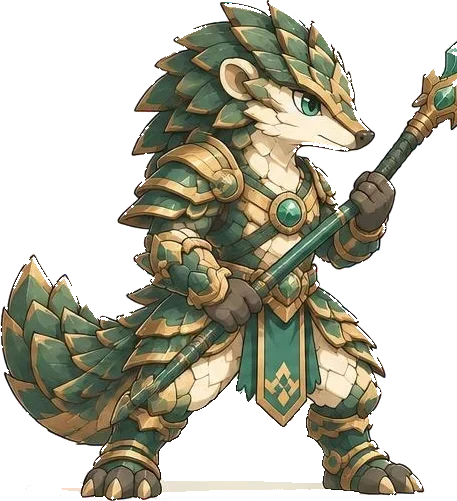
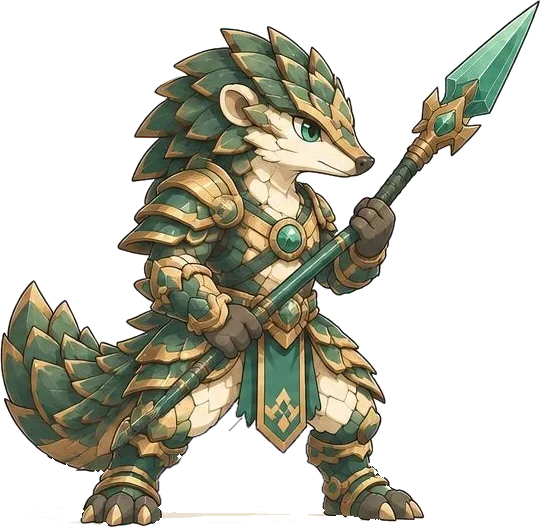
Realm: Kestran's standing poses show the full spear tip
Claude-Session: https://claude.ai/code/session_01V1aEsn5B6Gnr4Ug8DBZ5Wk

diff --git a/realm-images.js b/realm-images.js
@@ -12,7 +12,7 @@ const RL_ART={
   // f: standing art for each form, with the same placement fields (w/ih = file size).
   // Kestran (pangolin spear knight, chibi). LEGENDARY. Frames per form are [Spear Thrust, Winding Sweep, Spearstorm]:
   // the thrust is a lunge; the sweep reuses the thrust stance (the sheet's sweep crosses his legs) and draws the painted arc.
-  pan:{f:[{src:'art/pan-1.webp',ax:242,ay:487,h:472,w:464,ih:487,ht:0},{src:'art/pan-2.webp',ax:252,ay:501,h:485,w:457,ih:501,ht:0},{src:'art/pan-3.webp',ax:294,ay:580,h:562,w:625,ih:580,ht:0}],pose:'skill',melee:true,meleeSk:[true,false,false],dashPose:0,slash:'jade',
+  pan:{f:[{src:'art/pan-1.webp',ax:242,ay:511,h:495,w:519,ih:511,ht:0},{src:'art/pan-2.webp',ax:252,ay:527,h:511,w:540,ih:527,ht:0},{src:'art/pan-3.webp',ax:294,ay:580,h:562,w:625,ih:580,ht:0}],pose:'skill',melee:true,meleeSk:[true,false,false],dashPose:0,slash:'jade',
         c:[[{src:'art/pan-1c1.webp',ax:130,ay:284,h:275,w:416,ih:284,ht:0},{src:'art/pan-1c2.webp',ax:130,ay:284,h:275,w:416,ih:284,ht:0},{src:'art/pan-1c3.webp',ax:140,ay:313,h:303,w:289,ih:313,ht:0}],
            [{src:'art/pan-2c1.webp',ax:132,ay:289,h:280,w:428,ih:289,ht:0},{src:'art/pan-2c2.webp',ax:132,ay:289,h:280,w:428,ih:289,ht:0},{src:'art/pan-2c3.webp',ax:144,ay:391,h:379,w:293,ih:391,ht:0}],
            [{src:'art/pan-3c1.webp',ax:135,ay:297,h:288,w:442,ih:297,ht:0},{src:'art/pan-3c2.webp',ax:135,ay:297,h:288,w:442,ih:297,ht:0},{src:'art/pan-3c3.webp',ax:147,ay:421,h:408,w:304,ih:421,ht:0}]],
